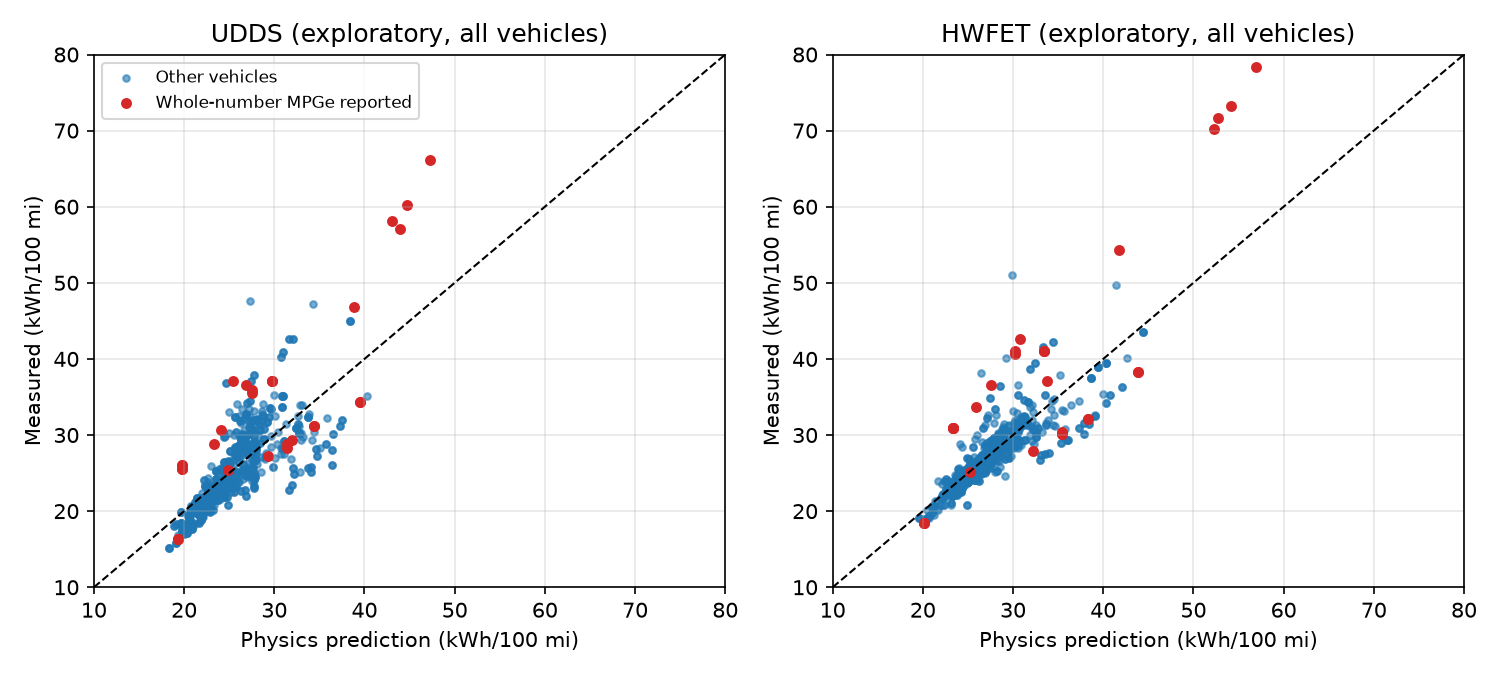
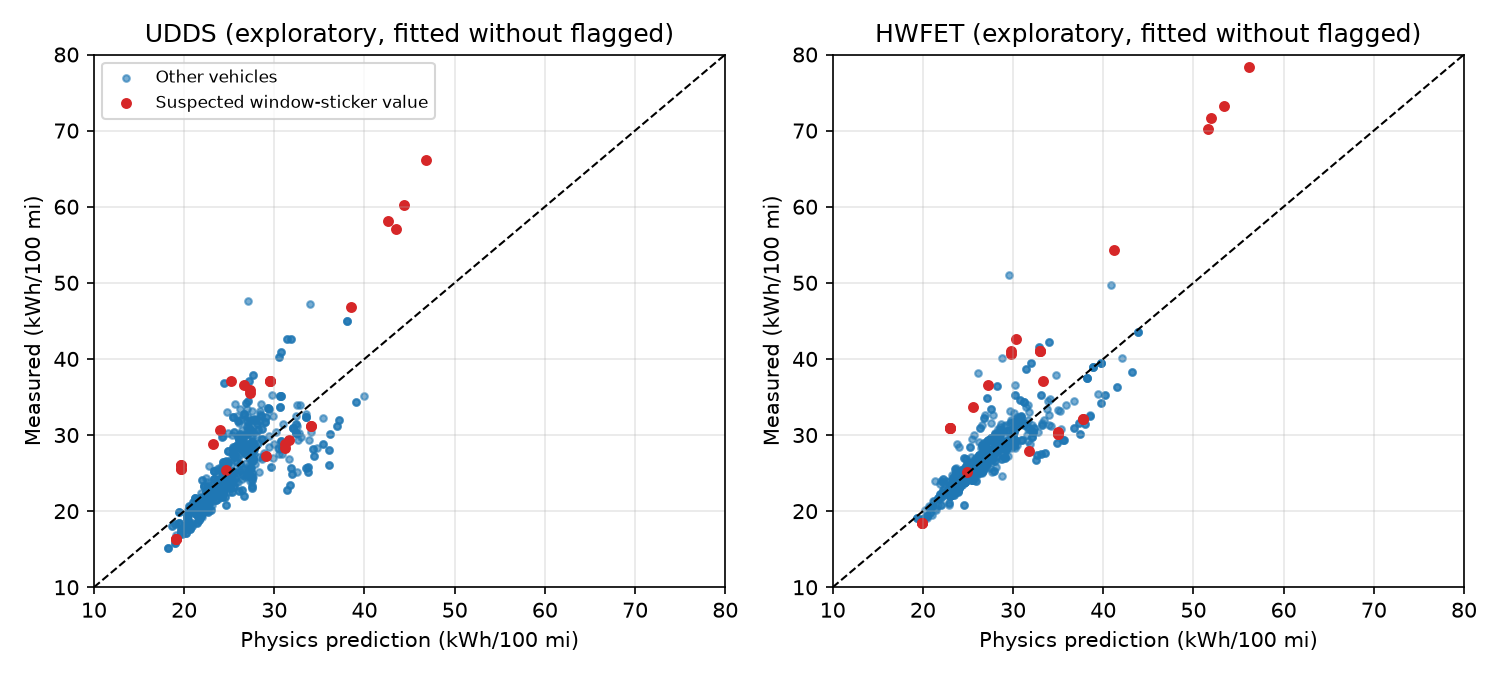
Compare physics fit with and without flagged vehicles; document fueleconomy.gov check

diff --git a/scripts/stage2_physics.py b/scripts/stage2_physics.py
@@ -9,8 +9,10 @@ Outputs (all in results/stage2/):
 * drive_cycles.png        : the UDDS and HWFET speed traces
 * wheel_power_example.png : wheel power over the UDDS for one vehicle
 * convergence.csv/.png    : step-size convergence of the cycle integrals
-* exploratory_fit.csv     : physics parameters fitted to ALL vehicles
-* parity_exploratory.png  : measured vs predicted consumption
+* exploratory_fit.csv     : physics parameters fitted with and without the
+                            suspected window-sticker vehicles
+* parity_exploratory.png  : measured vs predicted consumption, flagged
+                            vehicles highlighted
 
 The fit here uses every vehicle and is for checking the physics only. The
 proper train/test evaluation is done in Stage 4.
@@ -29,7 +31,7 @@ from ev_energy import physics_model as pm
 
 ROOT = Path(__file__).resolve().parents[1]
 RAW = ROOT / "data" / "raw"
-CLEAN = ROOT / "data" / "processed" / "ev_clean.csv"
+CLEAN_ALL = ROOT / "data" / "processed" / "ev_clean_with_flagged.csv"
 OUT = ROOT / "results" / "stage2"
 M_PER_MILE = 1609.344
 REFINEMENT_FACTORS = (1, 2, 4, 8, 16, 32)
@@ -131,14 +133,14 @@ def plot_parity(feat: pd.DataFrame, model: pm.PhysicsModel) -> None:
     for ax, name in zip(axes, ("city", "hwy")):
         y = feat[f"{name}_kwh_per_100mi"]
         p = model.predict(feat, name)
-        flag = feat["integer_mpge"]
+        flag = feat["label_value_suspect"].to_numpy()
         ax.scatter(p[~flag], y[~flag], s=10, alpha=0.6, label="Other vehicles")
-        ax.scatter(p[flag], y[flag], s=18, color="tab:red", label="Whole-number MPGe reported")
+        ax.scatter(p[flag], y[flag], s=18, color="tab:red", label="Suspected window-sticker value")
         lims = [10, 80]
         ax.plot(lims, lims, "k--", lw=1)
         ax.set_xlim(lims)
         ax.set_ylim(lims)
-        ax.set_title(f"{'UDDS' if name == 'city' else 'HWFET'} (exploratory, all vehicles)")
+        ax.set_title(f"{'UDDS' if name == 'city' else 'HWFET'} (exploratory, fitted without flagged)")
         ax.set_xlabel("Physics prediction (kWh/100 mi)")
         ax.set_ylabel("Measured (kWh/100 mi)")
         ax.grid(alpha=0.3)
@@ -148,39 +150,55 @@ def plot_parity(feat: pd.DataFrame, model: pm.PhysicsModel) -> None:
     plt.close(fig)
 
 
+def fit_summary(feat: pd.DataFrame, label: str) -> tuple[pm.PhysicsModel, dict]:
+    """Fit the physics model and return it with a row of summary statistics."""
+    model = pm.PhysicsModel().fit(feat)
+    row = {"dataset": label, "n_vehicles": len(feat), **model.params()}
+    for c in ("city", "hwy"):
+        y = feat[f"{c}_kwh_per_100mi"]
+        r = y - model.predict(feat, c)
+        row[f"{c}_rmse"] = float(np.sqrt((r**2).mean()))
+        row[f"{c}_r2"] = float(1 - (r**2).sum() / ((y - y.mean()) ** 2).sum())
+    return model, row
+
+
 def main() -> None:
     OUT.mkdir(parents=True, exist_ok=True)
     cycles = pm.load_epa_cycles(RAW)
-    vehicles = pd.read_csv(CLEAN)
-    feat = pm.add_physics_features(vehicles, cycles)
+    feat_all = pm.add_physics_features(pd.read_csv(CLEAN_ALL), cycles)
+    feat = feat_all[~feat_all["label_value_suspect"]].reset_index(drop=True)
 
-    # Flag vehicles whose reported values are whole-number MPGe on both
-    # cycles. These may be label (adjusted) values rather than raw test
-    # results, and are checked in the report.
-    for c in ("city", "hwy"):
-        mpge = 100 * 33.705 / feat[f"{c}_kwh_per_100mi"]
-        feat[f"{c}_mpge_whole"] = np.isclose(mpge, mpge.round(), atol=0.02)
-    feat["integer_mpge"] = feat["city_mpge_whole"] & feat["hwy_mpge_whole"]
+    _, row_all = fit_summary(feat_all, "with flagged vehicles")
+    model, row_clean = fit_summary(feat, "flagged vehicles excluded")
+    summary = pd.DataFrame([row_all, row_clean])
+    summary.to_csv(OUT / "exploratory_fit.csv", index=False)
 
-    model = pm.PhysicsModel().fit(feat)
-    params = model.params()
-    pd.DataFrame([params]).to_csv(OUT / "exploratory_fit.csv", index=False)
+    print("Exploratory physics fit (all vehicles, physics check only; Stage 4 does train/test)")
+    for _, r in summary.iterrows():
+        print(
+            f"  {r['dataset']:<26} n={r['n_vehicles']:>3}  eta_d={r['eta_d']:.3f}  "
+            f"eta_r={r['eta_r']:.3f}  P_aux={r['p_aux_w']:6.1f} W  "
+            f"city RMSE {r['city_rmse']:.2f} (R2 {r['city_r2']:.3f})  "
+            f"hwy RMSE {r['hwy_rmse']:.2f} (R2 {r['hwy_r2']:.3f})"
+        )
 
-    print("Exploratory fit on all vehicles (physics check only)")
-    print(f"  eta_d = {params['eta_d']:.3f}, eta_r = {params['eta_r']:.3f}, P_aux = {params['p_aux_w']:.1f} W")
-    for c in ("city", "hwy"):
-        r = feat[f"{c}_kwh_per_100mi"] - model.predict(feat, c)
-        y = feat[f"{c}_kwh_per_100mi"]
-        r2 = 1 - (r**2).sum() / ((y - y.mean()) ** 2).sum()
-        print(f"  {c:>4}: RMSE {np.sqrt((r**2).mean()):.2f} kWh/100 mi, R^2 {r2:.3f}")
+    # Ratio of measured to predicted for each flagged vehicle, using the
+    # model fitted without them. Label values should sit near 1/0.7 = 1.43.
+    flagged = feat_all[feat_all["label_value_suspect"]].copy()
+    flagged["city_ratio"] = flagged["city_kwh_per_100mi"] / model.predict(flagged, "city")
+    flagged["hwy_ratio"] = flagged["hwy_kwh_per_100mi"] / model.predict(flagged, "hwy")
+    cols = ["model_year", "make", "model", "city_ratio", "hwy_ratio"]
+    flagged[cols].to_csv(OUT / "flagged_vehicles.csv", index=False)
+    print("\nFlagged vehicles: measured / physics prediction")
+    print(flagged[cols].round(2).to_string(index=False))
 
     veh = example_vehicle(feat)
     plot_drive_cycles(cycles)
     plot_wheel_power(cycles["city"], veh)
-    conv = convergence_study(cycles, veh, params["eta_d"], params["eta_r"])
+    conv = convergence_study(cycles, veh, model.eta_d_, model.eta_r_)
     conv.to_csv(OUT / "convergence.csv", index=False)
     plot_convergence(conv)
-    plot_parity(feat, model)
+    plot_parity(feat_all, model)
 
     print("\nConvergence (example vehicle, consumption kWh/100 mi at dt = 1 s vs finest):")
     for (c, kind, method), g in conv.groupby(["cycle", "interpolant", "method"]):

diff --git a/learning_log.md b/learning_log.md
@@ -1,0 +1,90 @@
+# Learning Log
+
+MMA3001 individual project: predicting EV energy consumption from EPA test data.
+
+This log records what I did in each session, what I learned, where I got stuck, and how I used AI. The factual record of each session was drafted with Claude from our working sessions and checked by me. The reflections under "What I learned" and "Where I got stuck" are my own.
+
+---
+
+## Week 7 
+### Scoping the project
+
+**What I did**
+- Read the project brief and rubric in detail. 
+- Started from an idea to predict EV driving range from the EPA "Data on Cars Used for Testing Fuel Economy" spreadsheets for model years 2022 to 2026.
+- Found that the dataset has no range column and no battery capacity, only measured energy efficiency.
+- Looked at alternative datasets: a Kaggle EV specs dataset (478 cars, has range and battery size but no mass, and its range values come from a specs website rather than testing), the fueleconomy.gov vehicle dataset (official range but almost no design inputs), and a Mendeley dataset (only 53 cars).
+- Chose to keep the EPA test data and change the target to energy consumption (kWh/100 mi), because it is measured test data, includes mass and road-load coefficients, and supports a physics-based comparison using numerical methods from the unit. Notified the coordinator of the change of target; it was approved.
+
+**Why it mattered**
+- Range is roughly battery energy divided by consumption, so consumption is the part of range that vehicle design controls.
+
+**AI use**
+- Claude read the brief with me, inspected the five EPA files, searched for alternative datasets and compared them against the rubric. I made the final choice of dataset and target.
+
+### Setting up the project
+
+**What I did**
+- double checked that I had already installed Python, VS Code (with the Python extension) and GitHub Desktop.
+- using my existing MMA3001 Project repository (that we made in week 1) and renamed it to `ev-energy-prediction`, and edited the README
+- Set up a virtual environment (`.venv`) and installed the project packages from `requirements.txt`.
+- Learned the workflow: edit, run `pytest`, commit with a clear message, push.
+- Created a `physics-model` branch for Stage 2.
+
+**AI use**
+- Claude explained each concept and gave project setup instructions. I carried out every step myself and checked each result (for example `35 passed` from `pytest`, and the commits appearing on GitHub).
+
+### Stage 1, data cleaning
+
+**What I did**
+- Built a cleaning pipeline (`src/ev_energy/data_cleaning.py`) that reduces 21,479 raw rows to one row per tested EV with both a city (UDDS) and highway (HWFET) result.
+- Issues found and handled in the raw data:
+  - The efficiency column mixes units. Most manufacturers report unadjusted MPGe (about 70 to 200), but Hyundai, Kia, Genesis, Rivian, Fisker, Fiat and some others report kWh/100 mi (about 15 to 40). The unit is inferred from magnitude with a threshold of 40, and MPGe is converted with kWh/100 mi = 100 × 33.705 / MPGe.
+  - Placeholder values: efficiency values of 999 (Lucid) and horsepower values such as 1 hp (Fisker).
+  - Inconsistent brand names ("Audi" and "AUDI"), and Lucid rows with a year in the make field.
+  - Repeated tests of the same vehicle, which are averaged. The median spread between repeat tests is 0.16 kWh/100 mi, which sets a measurement noise floor.
+  - Carryover models retested with identical specifications in later years. Each model gets a group ID so a train/test split can keep all its copies on one side, preventing data leakage.
+- Result: 740 vehicles (275 unique models). Wrote 35 tests, including checks with synthetic data where the correct answer is known.
+
+**AI use**
+- Claude analysed the raw data and generated the cleaning code and tests. I checked it by running the tests, running the pipeline on the real data, and reading each function's docstring against the decisions above.
+
+---
+
+## Week 8: 
+### Stage 2, physics-based energy model
+
+**What I did**
+- Downloaded the EPA UDDS and HWFET speed traces and checked them against EPA's published values: 1,369 s and 7.45 mi for the UDDS, 765 s and 10.26 mi for the HWFET.
+- Derived the energy model: wheel power P_w = (m a + f0 + f1 v + f2 v²) v, split into driving energy E+ and braking energy E−, with wall energy E_b = E+/η_d − η_r E− + P_aux T. The model is linear in 1/η_d, η_r and P_aux, so these are fitted by bounded linear least squares.
+- Used numerical methods from the unit: central finite differences for acceleration (Week 7.1), and the composite trapezoidal and Simpson's rules for the integrals (Week 6), with a 3/8-rule correction because both cycles have an odd number of intervals.
+- Verified the code with analytical solutions, the EPA benchmarks, a manufactured solution (fake data from known parameters, which the fit recovers exactly) and an energy-conservation check. 66 tests passing at this point.
+- Convergence study: at EPA's 1 s time step, consumption is about 1.0 to 1.4% low (city) and 0.3% low (highway) compared with refining to 1/32 s. Simpson's rule did not beat the trapezoidal rule, because max(P_w, 0) puts kinks in the integrand.
+- Exploratory fit on all vehicles: η_d = 0.785, η_r = 0.669, R² of 0.62 (city) and 0.72 (highway). P_aux hit its lower bound of zero; unbounded it wanted about −555 W, which suggests the constant-efficiency assumption is a limitation.
+
+**AI use**
+- Claude derived the model with me and generated the code, tests and figures. I checked the derivation step by step before agreeing to the form, then ran the tests and checked the outputs against the derivation and the EPA benchmarks.
+
+### Independent data check on fueleconomy.gov
+
+**What I did**
+- The physics model showed a group of vehicles sitting about 1.3 times above prediction, nearly all reported as whole number MPGe. The theory was that these are window sticker values (about 0.7 times the raw test result) rather than dynamometer results.
+- Checked label values myself on fueleconomy.gov:
+  - 2022 Chevrolet Bolt EV: 120 combined, 131 city, 109 highway. Our data: 129 and 132 city, 109 highway.
+  - 2024 GMC Hummer EV SUV: 59/48, 56/46 and 51/43 city/highway across versions, matching our data exactly. The MT Tires version showed 55/45.
+- Result: the theory was confirmed. Added a rule to exclude vehicles reported as whole-number MPGe on both cycles. The rule uses how values were reported, not the model's residuals, to avoid circular reasoning.
+- Effect: 712 vehicles remain. Highway RMSE fell from 3.07 to 2.41 kWh/100 mi and city RMSE from 3.73 to 3.43.
+- Trade-off: 10 of the 28 flagged vehicles (for example the Tesla Model 3 Long Range RWD and BMW i4) look like genuine results that happen to be whole numbers. I accepted losing them to keep a rule that does not depend on the model.
+
+**AI use**
+- Claude proposed the window-sticker theory and wrote the exclusion rule and its tests. I did the fueleconomy.gov lookups myself and kept screenshots as evidence.
+
+
+
+## Resources used
+
+- US EPA, Data on Cars Used for Testing Fuel Economy: https://www.epa.gov/compliance-and-fuel-economy-data/data-cars-used-testing-fuel-economy
+- US EPA, Dynamometer Drive Schedules: https://epa.gov/vehicle-and-fuel-emissions-testing/dynamometer-drive-schedules
+- US DOE/EPA, fueleconomy.gov: https://www.fueleconomy.gov
+- MMA3001 unit notes: Week 1 (version control, documentation, testing), Week 5.5 and 5.6 (evaluation and data splitting), Week 6 (numerical integration), Week 7.1 (finite differences)
+- [Add anything else you read or watched yourself.]

diff --git a/README.md b/README.md
@@ -1,4 +1,4 @@
-# MMA3001 Project - Harshil Dobariya - EV Energy Consumption Prediction
+# EV Energy Consumption Prediction
 
 MMA3001 Numerical Methods and Machine Learning, Monash University, 2026.
 Individual project by Harshil Dobariya.
@@ -55,7 +55,12 @@ Build the cleaned dataset from the raw EPA files:
 python -m ev_energy.data_cleaning
 ```
 
-This writes `data/processed/ev_clean.csv` and prints a row count after every cleaning step.
+This writes two files to `data/processed/` and prints a row count after every cleaning step:
+
+- `ev_clean.csv`: the modelling dataset (712 vehicles), with suspected window-sticker values excluded.
+- `ev_clean_with_flagged.csv`: the same plus the 28 flagged vehicles, kept for comparison.
+
+Vehicles reported as whole-number MPGe on both cycles are flagged because this is the format of window-sticker (label) values, which are about 0.7 times the raw test result. This was confirmed against fueleconomy.gov for the 2024 GMC Hummer EV SUV and 2022 Chevrolet Bolt EV.
 
 Run the Stage 2 physics checks, convergence study and figures:
 
@@ -74,6 +79,9 @@ pytest
 Runs all unit tests and the docstring examples.
 
 ## Project log
+
+- **Week 10:** Project scoped and approved. Repository set up. Data cleaning pipeline written and tested.
+- **Week 10:** Physics-based energy model (road-load integration over UDDS and HWFET) written and verified against analytical solutions, EPA cycle benchmarks and a manufactured solution. Step-size convergence study completed. Physics cross-check identified vehicles whose reported values are window-sticker figures rather than test results; confirmed against fueleconomy.gov and excluded by a reporting-format rule.
 
 ## AI use
 
